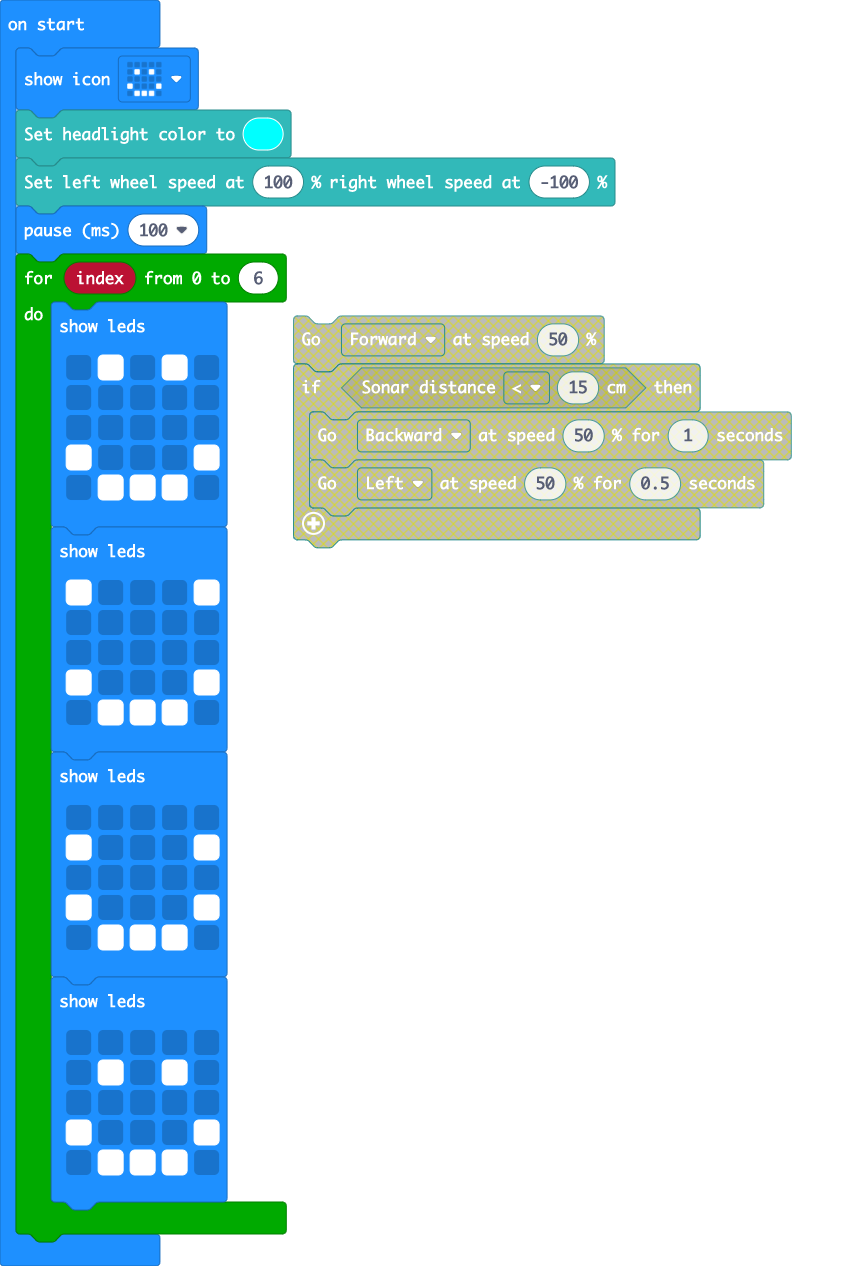
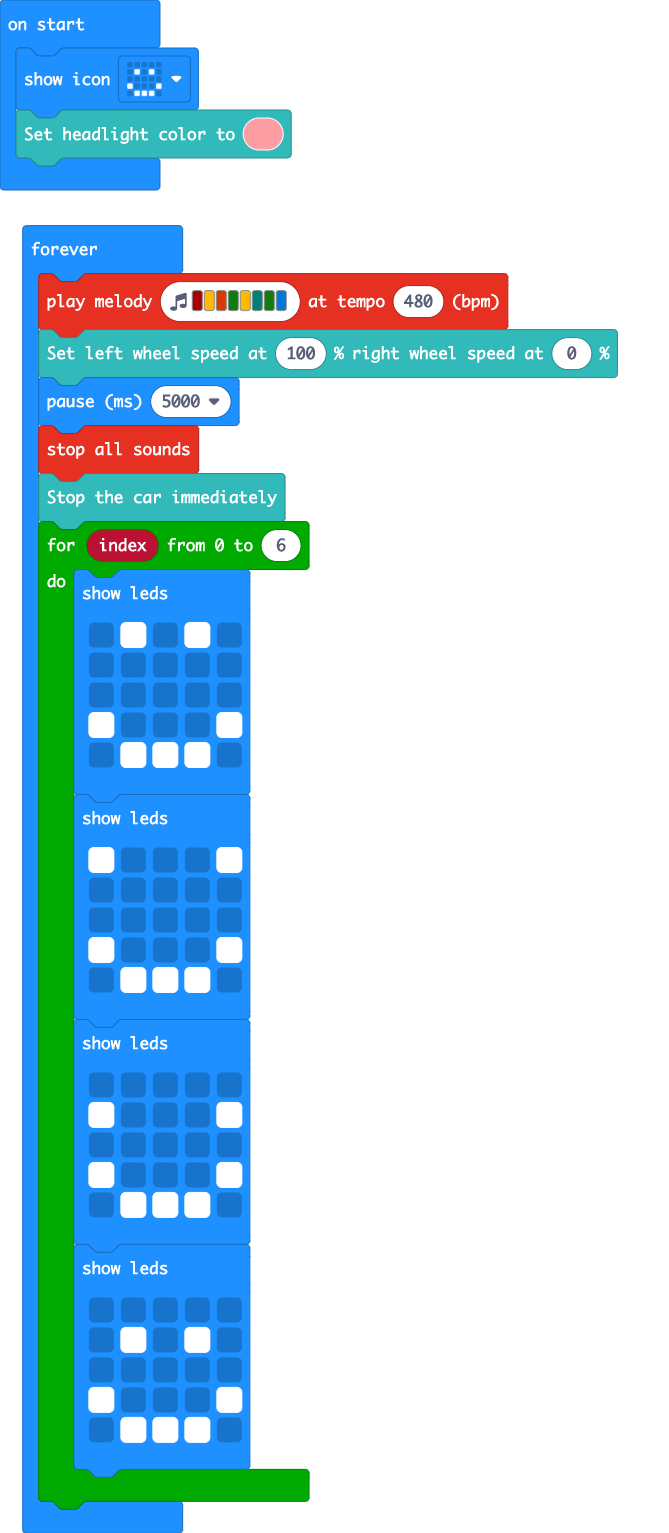
Switching to two control block

diff --git a/main.ts b/main.ts
@@ -1,37 +1,39 @@
 basic.showIcon(IconNames.Happy)
-TPBot.headlightColor(0x00ffff)
-TPBot.setWheels(100, -100)
-basic.pause(100)
-for (let index = 0; index <= 6; index++) {
-    basic.showLeds(`
-        . # . # .
-        . . . . .
-        . . . . .
-        # . . . #
-        . # # # .
-        `)
-    basic.showLeds(`
-        # . . . #
-        . . . . .
-        . . . . .
-        # . . . #
-        . # # # .
-        `)
-    basic.showLeds(`
-        . . . . .
-        # . . . #
-        . . . . .
-        # . . . #
-        . # # # .
-        `)
-    basic.showLeds(`
-        . . . . .
-        . # . # .
-        . . . . .
-        # . . . #
-        . # # # .
-        `)
-}
+TPBot.headlightColor(0xff9da5)
 basic.forever(function () {
-	
+    music.playMelody("C5 A B G A F G E ", 480)
+    TPBot.setWheels(100, 0)
+    basic.pause(5000)
+    music.stopAllSounds()
+    TPBot.stopCar()
+    for (let index = 0; index <= 6; index++) {
+        basic.showLeds(`
+            . # . # .
+            . . . . .
+            . . . . .
+            # . . . #
+            . # # # .
+            `)
+        basic.showLeds(`
+            # . . . #
+            . . . . .
+            . . . . .
+            # . . . #
+            . # # # .
+            `)
+        basic.showLeds(`
+            . . . . .
+            # . . . #
+            . . . . .
+            # . . . #
+            . # # # .
+            `)
+        basic.showLeds(`
+            . . . . .
+            . # . # .
+            . . . . .
+            # . . . #
+            . # # # .
+            `)
+    }
 })
